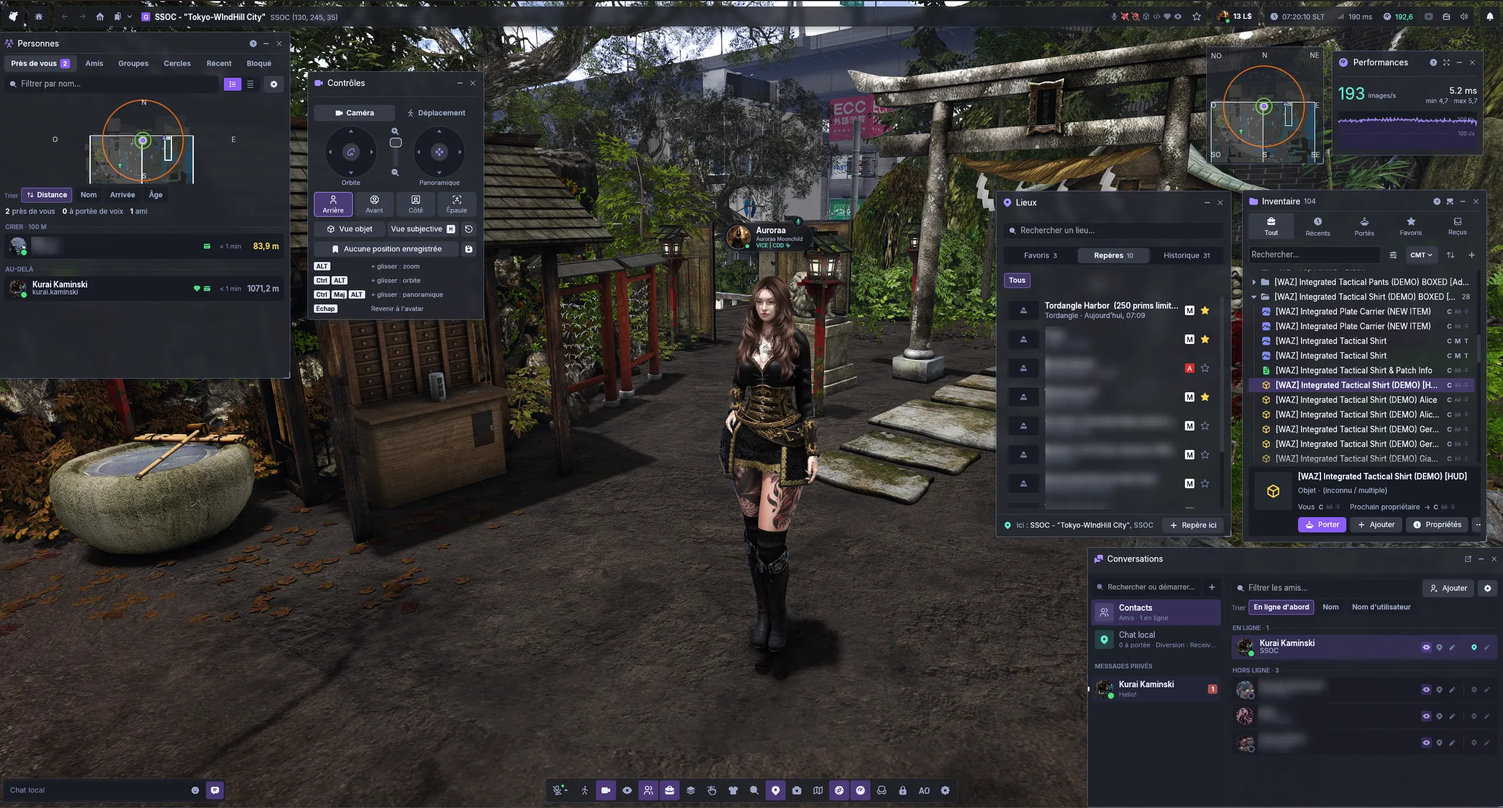
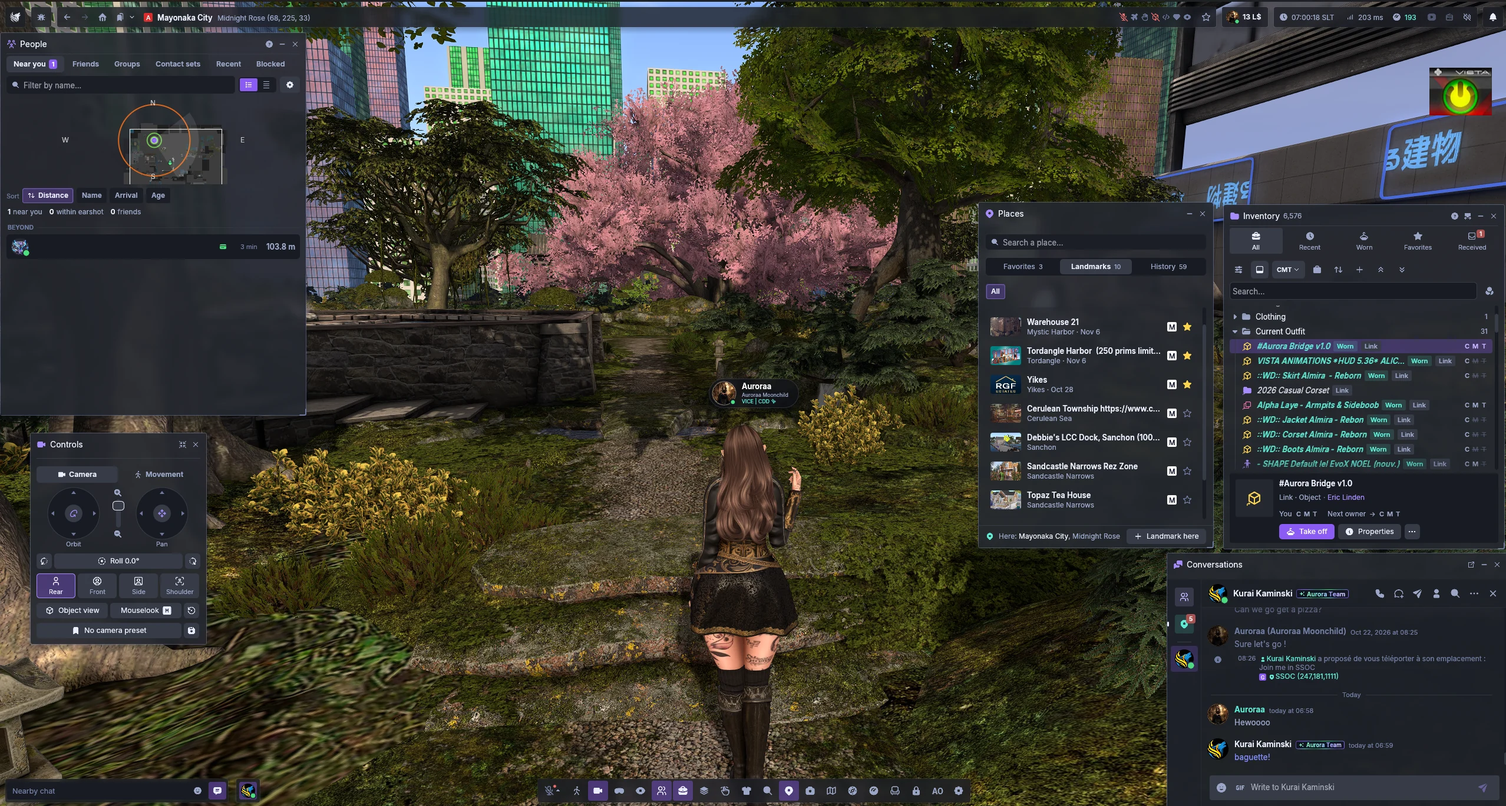
New world and viewfinder captures (#27)
* New world and viewfinder captures, without frame counters

* Keep the frame counters in the captures; only the resident's name is painted out

---------

diff --git a/index.html b/index.html
@@ -67,8 +67,8 @@
 <main id="main">
 
 <section id="top" class="hero">
-  <img class="hero-bg" src="/assets/img/world-1280.webp" srcset="/assets/img/world-1280.webp 1280w, /assets/img/world-2560.webp 2560w" sizes="100vw" width="2552" height="1372" fetchpriority="high"
-    alt="Aurora Viewer in a Japanese garden, with the People, Controls, Places, Inventory, Performance and Conversations windows open" data-i18n-alt="alt.world">
+  <img class="hero-bg" src="/assets/img/world-1280.webp" srcset="/assets/img/world-1280.webp 1280w, /assets/img/world-2560.webp 2560w" sizes="100vw" width="2556" height="1369" fetchpriority="high"
+    alt="Aurora Viewer in a garden under cherry trees, between city towers, with the People, Controls, Places, Inventory and Conversations windows open" data-i18n-alt="alt.world">
   <div class="hero-shade" aria-hidden="true"></div>
   <div class="wrap hero-in">
     <div class="hero-copy">
@@ -268,9 +268,9 @@
 
     <!-- The viewfinder as captured; .vf-lock sits on its green AF point (in % of the picture) and pulses like a focus lock. -->
     <div class="vf" data-observe>
-      <img class="vf-photo" src="/assets/img/viewfinder-1280.webp" srcset="/assets/img/viewfinder-1280.webp 1280w, /assets/img/viewfinder-2560.webp 2560w" sizes="(max-width: 1224px) 100vw, 1136px" width="2558" height="1365" loading="lazy"
+      <img class="vf-photo" src="/assets/img/viewfinder-1280.webp" srcset="/assets/img/viewfinder-1280.webp 1280w, /assets/img/viewfinder-2560.webp 2560w" sizes="(max-width: 1224px) 100vw, 1136px" width="2559" height="1370" loading="lazy"
         alt="The Aurora viewfinder: rule of thirds, the autofocus point locked on an avatar's face, the camera pad, the focal ring and the exposure readouts" data-i18n-alt="alt.photo">
-      <span class="vf-lock" style="left: 43.05%; top: 30.75%; width: 12.8%; height: 29.3%" aria-hidden="true"></span>
+      <span class="vf-lock" style="left: 45.92%; top: 22.99%; width: 7.93%; height: 18.1%" aria-hidden="true"></span>
     </div>
 
     <div class="grid3 photo-feats">
@@ -579,7 +579,7 @@
 </section>
 
 <section class="final">
-  <img class="final-bg" src="/assets/img/world-1280.webp" srcset="/assets/img/world-1280.webp 1280w, /assets/img/world-2560.webp 2560w" sizes="100vw" width="2552" height="1372" loading="lazy" alt="">
+  <img class="final-bg" src="/assets/img/world-1280.webp" srcset="/assets/img/world-1280.webp 1280w, /assets/img/world-2560.webp 2560w" sizes="100vw" width="2556" height="1369" loading="lazy" alt="">
   <div class="wrap">
     <h2 class="display h2" data-i18n="final.title">Step into a smoother Second&nbsp;Life.</h2>
     <p class="lead" data-i18n="final.lead">Free, open source, and ready for your next login.</p>

diff --git a/assets/js/site.js b/assets/js/site.js
@@ -132,7 +132,7 @@
     'dl.more.all.text': 'Chaque version et ses notes, sur GitHub.',
     'dl.more.uninstall.text': 'Retirer le viewer et ses fichiers.',
     'dl.more.signing.text': 'Comment les versions sont construites et vérifiées.',
-    'alt.world': 'Aurora Viewer dans un jardin japonais, avec les fenêtres Personnes, Contrôles, Lieux, Inventaire, Performances et Conversations ouvertes',
+    'alt.world': 'Aurora Viewer dans un jardin sous les cerisiers, entre les tours d’une ville, avec les fenêtres Personnes, Contrôles, Lieux, Inventaire et Conversations ouvertes',
     'float.load': 'Chargement en parallèle',
     'float.load-sub': 'Textures et meshes décodés en arrière-plan',
     'float.photo': 'Photos jusqu’en 8K',

diff --git a/download/index.html b/download/index.html
@@ -58,7 +58,7 @@
 <main id="main">
 
 <section class="band">
-  <img class="band-bg" src="/assets/img/world-1280.webp" srcset="/assets/img/world-1280.webp 1280w, /assets/img/world-2560.webp 2560w" sizes="100vw" width="2552" height="1372" fetchpriority="high" alt="">
+  <img class="band-bg" src="/assets/img/world-1280.webp" srcset="/assets/img/world-1280.webp 1280w, /assets/img/world-2560.webp 2560w" sizes="100vw" width="2556" height="1369" fetchpriority="high" alt="">
   <div class="wrap band-in">
     <p class="crumbs"><a href="/" data-i18n="crumb.home">Home</a> <span aria-hidden="true">/</span> <span data-i18n="nav.download">Download</span></p>
     <div class="band-row">
